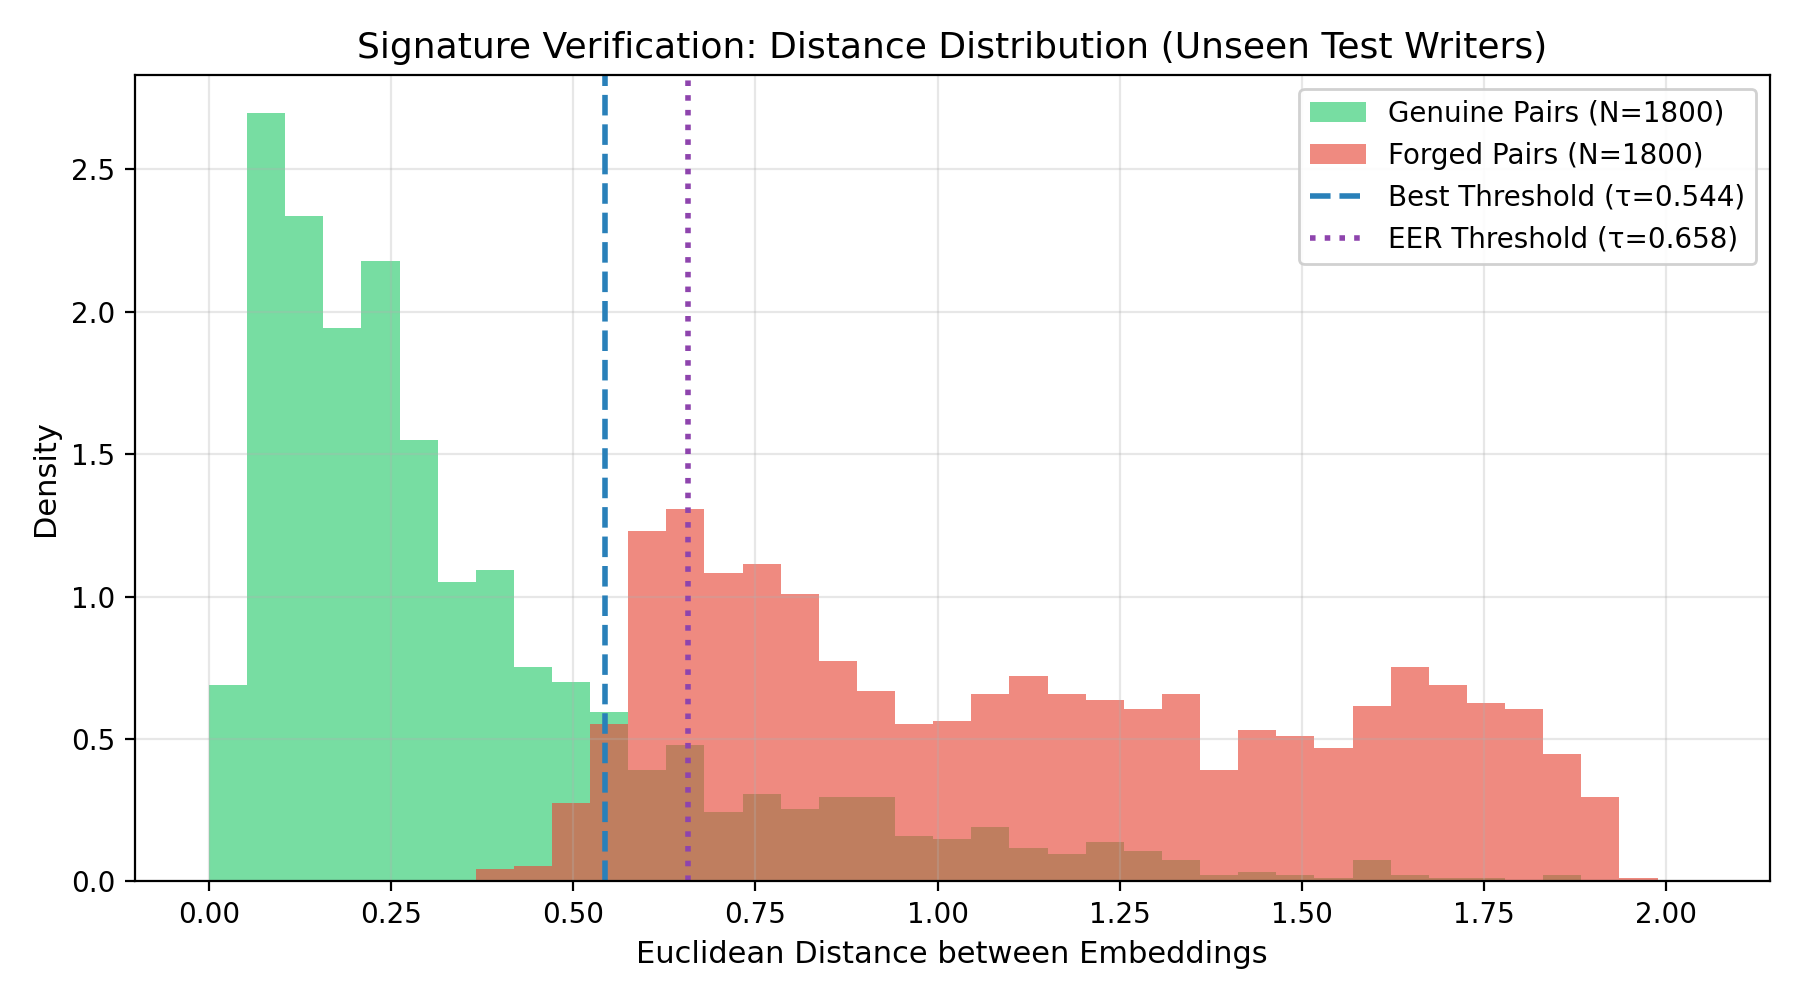
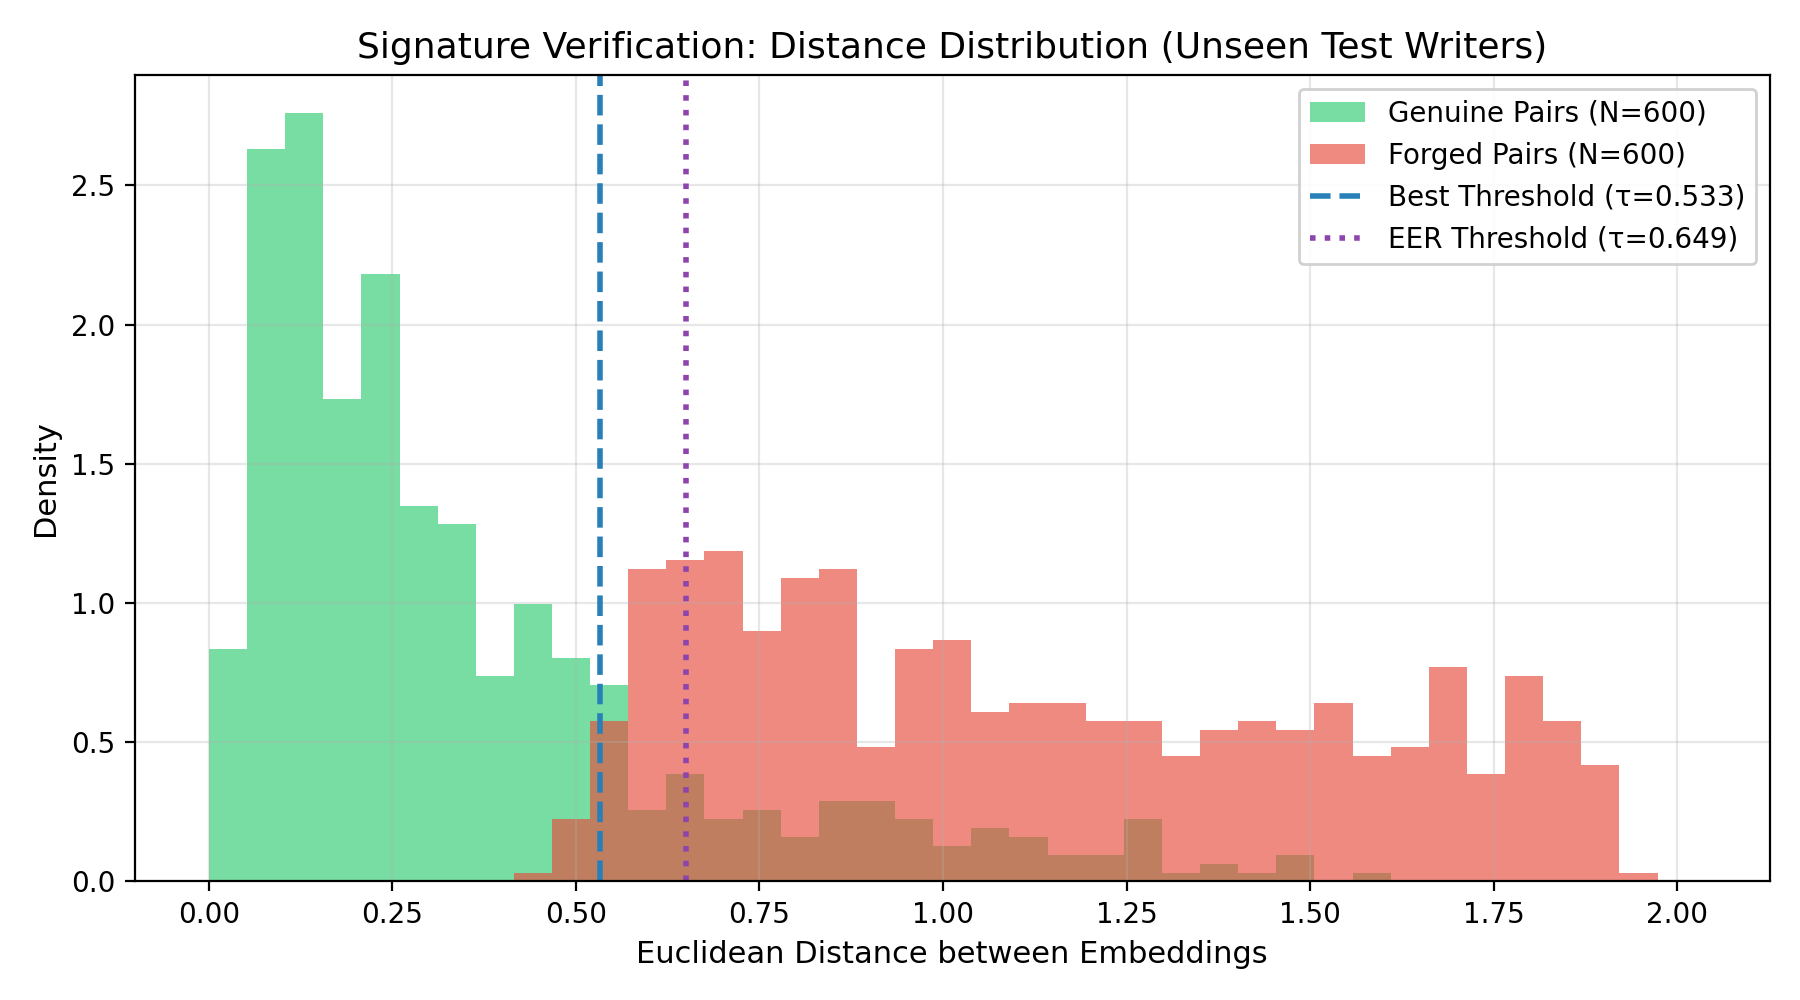
fix(eval): set default pairs_per_writer to 40 to match standard 1,200-pair benchmark

diff --git a/src/evaluate.py b/src/evaluate.py
@@ -241,7 +241,7 @@ def resolve_checkpoint_path(path_str: str) -> Path:
 def evaluate(
     checkpoint_path: str = "checkpoints/best_siamese_model.pth",
     data_dir: str = "data/signatures",
-    pairs_per_writer: int = 120,
+    pairs_per_writer: int = 40,
     output_dir: str = "evaluation_output",
     device_name: str = "cpu",
 ):
@@ -348,7 +348,7 @@ if __name__ == "__main__":
     parser = argparse.ArgumentParser(description="Evaluate Siamese Signature Verification Model")
     parser.add_argument("--checkpoint", type=str, default="checkpoints/best_siamese_model.pth")
     parser.add_argument("--data_dir", type=str, default="data/signatures")
-    parser.add_argument("--pairs_per_writer", type=int, default=120)
+    parser.add_argument("--pairs_per_writer", type=int, default=40)
     parser.add_argument("--output_dir", type=str, default="evaluation_output")
     parser.add_argument("--device", type=str, default="cpu")
 
